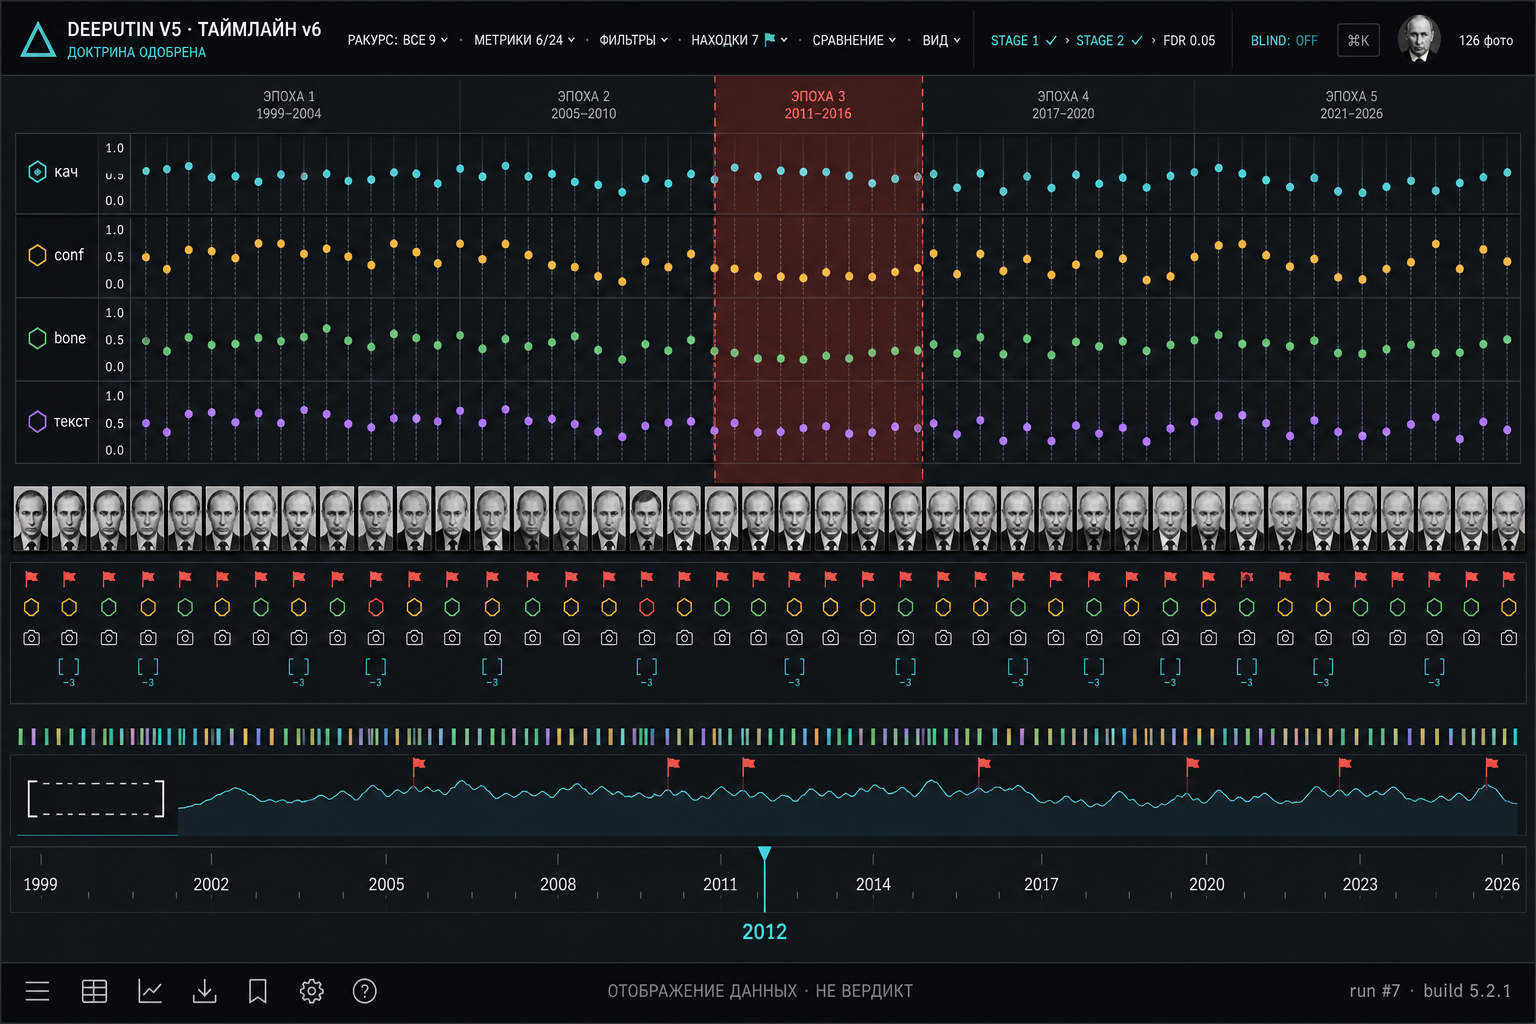
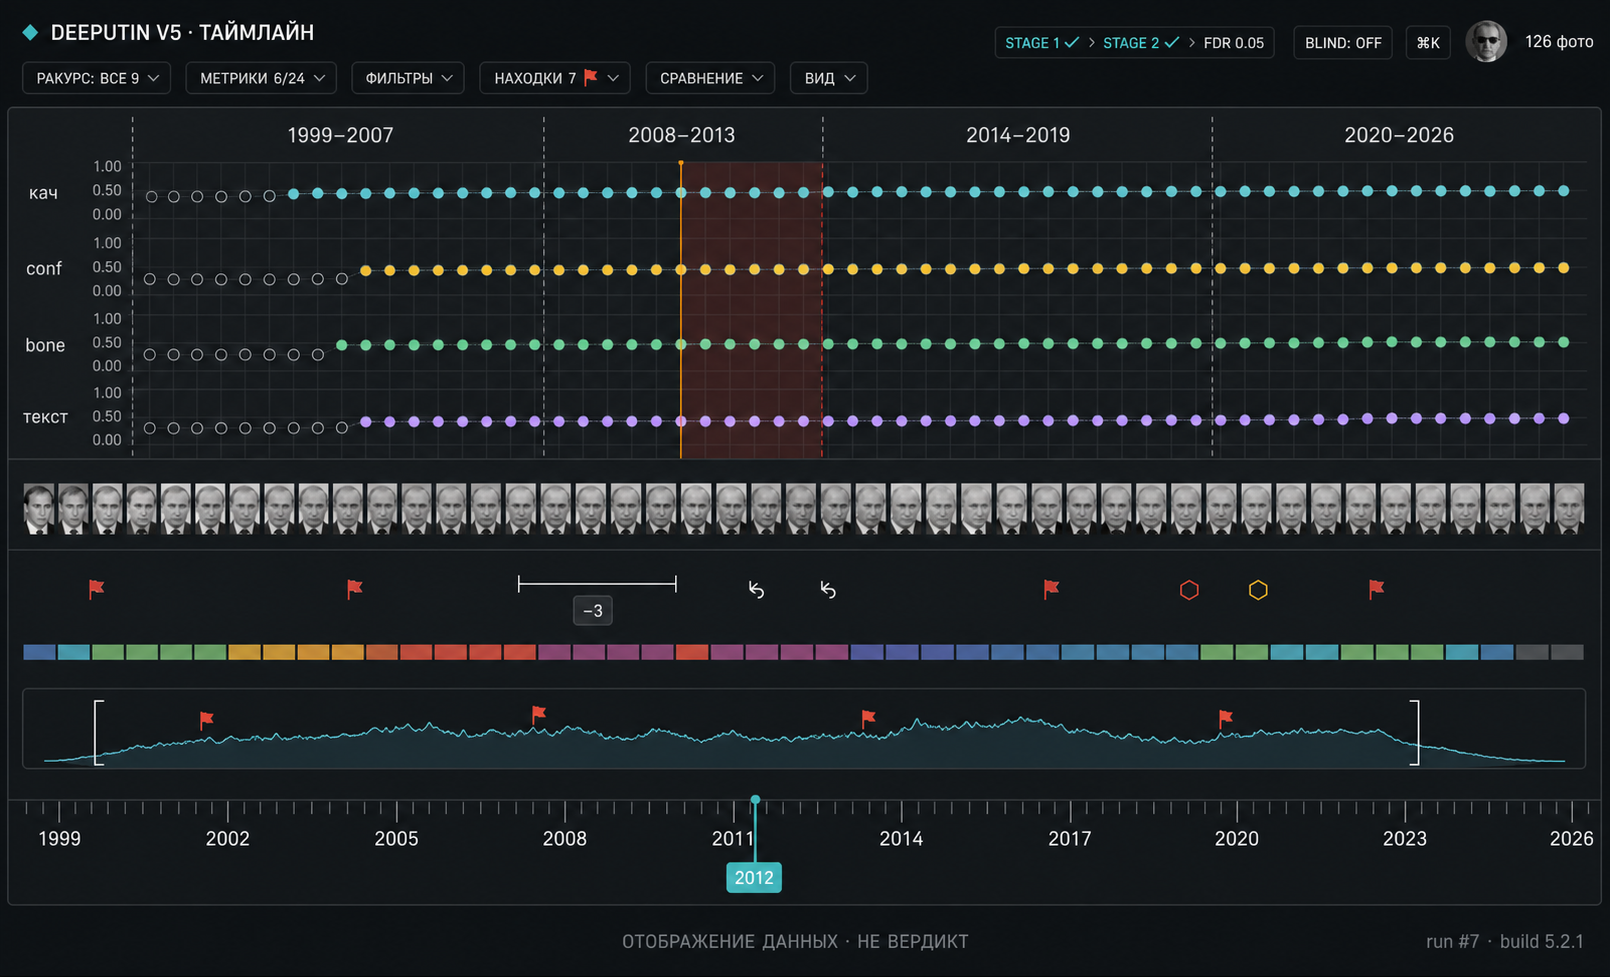
docs(ui-v5): restore renders batch 2 — v6 epochs fixed, screens 05-13 (23/42)

diff --git a/ui-v4/docs/v5-screens/README.md b/ui-v4/docs/v5-screens/README.md
@@ -1,38 +1,43 @@
-# DEEPUTIN V5 — Манифест рендеров (арhive recovery)
+# DEEPUTIN V5 — Манифест рендеров (arhive recovery)
 
-Статус восстановления после отката воркспейса (2026-08-05). Лимит генератора: 10 изображений за ход → восстановление идёт этапами по ~10.
+Восстановление после отката воркспейса (2026-08-05). Лимит генератора: 10/ход → этапы. PR #15.
 
-## ✓ Восстановлено (13)
+## ✓ Восстановлено (23/42)
 
 | Файл | Что |
 |---|---|
-| `docs/design-v5-main-page.png` | Главная страница (концепт) |
+| `docs/design-v5-main-page.png` | Главная (концепт) |
 | `docs/design-v5-timeline-v4.png` | Таймлайн v4 — реальные данные ТЗ |
-| `docs/design-v5-timeline-v5-99.png` | Таймлайн v5 — gate chain, СРАВНЕНИЕ, what-if |
-| `v5-screens/34-timeline-overview-v2.png` | Состояние таймлайна: обзор 2× |
-| `v5-screens/35-timeline-focus-v2.png` | Состояние: фокус 36× + live-пороги |
-| `v5-screens/36-timeline-findings-v2.png` | Состояние: находки + сравнение A/B |
-| `v5-screens/02-filters-live.png` | Фильтры + плавающие live-пороги |
+| `docs/design-v5-timeline-v5-99.png` | Таймлайн v5 — gate chain · СРАВНЕНИЕ · what-if |
+| `docs/design-v5-timeline-v6.png` | Таймлайн v6 — доктрина (эпохи исправлены: 1999–2007 / 2008–2013 / 2014–2019 / 2020–2026 ✓) |
+| `v5-screens/34-timeline-overview-v2.png` | Таймлайн: обзор 2× |
+| `v5-screens/35-timeline-focus-v2.png` | Таймлайн: фокус 36× + live-пороги |
+| `v5-screens/36-timeline-findings-v2.png` | Таймлайн: находки + A/B |
+| `v5-screens/02-filters-live.png` | Фильтры + live-пороги |
 | `v5-screens/03-profiles.png` | Профили 9 ракурсов |
-| `v5-screens/04-data-manager.png` | Менеджер данных + provenance |
+| `v5-screens/04-data-manager.png` | Данные + provenance |
+| `v5-screens/05-settings.png` | Настройки (дефолты + тест-фото) |
+| `v5-screens/06-calibration.png` | Калибровка (median/MAD/p95, FDR, m) |
+| `v5-screens/07-photo-lab.png` | Photo Lab (3D-стейдж, чипы, облако данных) |
+| `v5-screens/08-landmark-compare.png` | Лендмарки A/B + парный скрабер |
+| `v5-screens/09-morphing.png` | Морфинг (ручной скраб, re-scope, слои) |
+| `v5-screens/10-advisor.png` | Advisor (дыры покрытия, приоритеты) |
+| `v5-screens/11-pair-analysis.png` | Парный анализ (±20%, референс 1999–2005) |
+| `v5-screens/12-logs.png` | Логи (структурные, цепи событий) |
+| `v5-screens/13-run-manager.png` | Runs (статусы, preflight, retry=новый) |
 | `v5-screens/ton-01-onchain-collage.png` | TON: NFT-коллаж |
-| `v5-screens/ton-02-ton-integration.png` | TON: Mini App, минтинг, Stars |
-| `v5-screens/ton-03-morphing-infra-funnel.png` | TON: инфра морфинга + хостинг + воронка |
+| `v5-screens/ton-02-ton-integration.png` | TON: Mini App · минтинг · Stars |
+| `v5-screens/ton-03-morphing-infra-funnel.png` | TON: инфра морфинга · хостинг · воронка |
+| `v5-screens/` | + `34/35/36` v2 (см. выше) |
 
-## ⚠ К перегенерации (артефакт рендера)
+## ⏳ В очереди (19)
 
-| Файл | Проблема |
-|---|---|
-| `docs/design-v5-timeline-v6.png` | Генератор нарисовал **5 эпох с чужими границами** (1999–2004…2021–2026). Канонические эпохи (`ERA_BOUNDS`): **1999–2007 / 2008–2013 / 2014–2019 / 2020–2026**. Также gutter перенасыщен (флаги/−3 на каждой колонке). |
-
-## ⏳ В очереди на восстановление (29)
-
-Экраны разделов: `05-settings` · `06-calibration` · `07-photo-lab` · `08-landmark-compare` · `09-morphing` · `10-advisor` · `11-pair-analysis` · `12-logs` · `13-run-manager` · `14-reports` · `15-blind-review` · `16-dataset-inventory` · `17-provenance` · `18-probe` · `19-evidence-package` · `20-run-diff` · `21-command-palette`
+Разделы: `14-reports` · `15-blind-review` · `16-dataset-inventory` · `17-provenance` · `18-probe` · `19-evidence-package` · `20-run-diff` · `21-command-palette`
 Кластеры (5): `22-clusters-chronology` · `23-clusters-embedding` · `24-clusters-cloud-far` · `25-clusters-cloud-near` · `26-clusters-switches`
 Гипотезы (3): `27-hypothesis-validation` · `28-hypothesis-registry` · `29-shift-lab`
-Дизайн-система (4 листа): `30-design-system` · `31-design-system-states` · `32-design-system-dataviz` · `33-design-system-patterns`
+Дизайн-система (4): `30-design-system` · `31-design-system-states` · `32-design-system-dataviz` · `33-design-system-patterns`
 
-План: этапы по 10/ход → 3 хода до полного набора (42 рендера итого).
+План: этап 3 (14–21 + 2 кластера), этап 4 (остаток + финальный zip).
 
-## Каноны, по которым восстанавливаем
-`ui-v4/docs/v5-user-brief.md` — все требования; доктрина таймлайна (ВЫШЕ/НИЖЕ/ВНИЗУ, 1 фото = 1 колонка, без glow); палитра #0b0e13/#10141b/#2b323e + 6 акцентов; футер «ОТОБРАЖЕНИЕ ДАННЫХ · НЕ ВЕРДИКТ».
+## Каноны
+`ui-v4/docs/v5-user-brief.md`; доктрина таймлайна (ВЫШЕ/НИЖЕ/ВНИЗУ; 1 фото = 1 колонка; без glow); палитра #0b0e13/#10141b/#2b323e + 6 акцентов; футер «ОТОБРАЖЕНИЕ ДАННЫХ · НЕ ВЕРДИКТ»; изоляция «Валидации гипотез».
